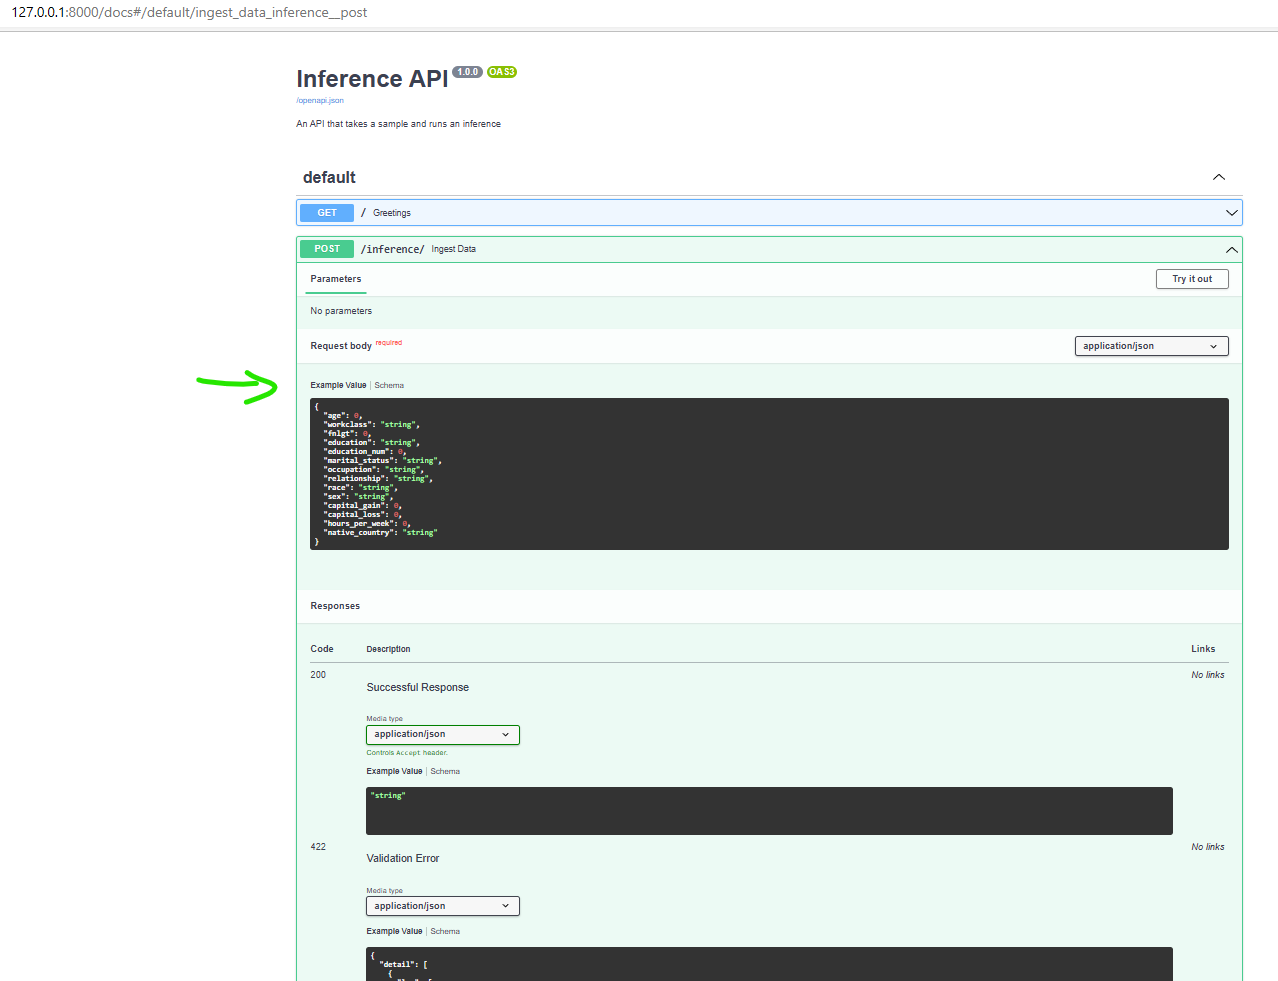
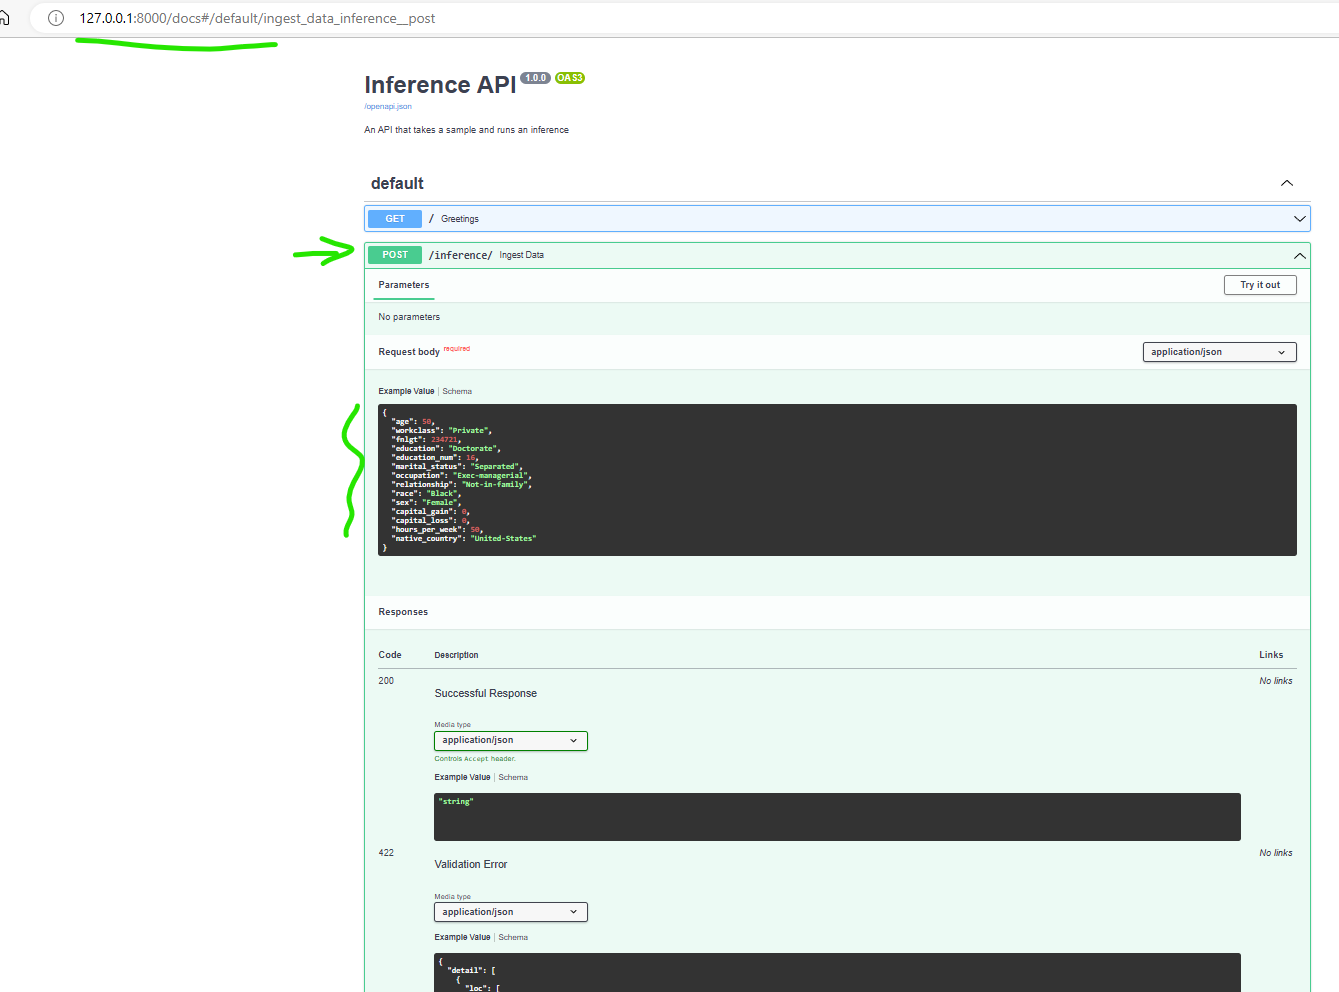
adding 1 test for class 0

diff --git a/_test_main.py b/_test_main.py
@@ -57,6 +57,40 @@ def test_inference():
     assert r.json()["prediction"] == '>50K'
 
 
+def test_inference_class0():
+    """
+    Test model inference output for class 0
+    """
+    sample =  {  'age':30,
+                'workclass':"Private", 
+                'fnlgt':234721,
+                'education':"HS-grad",
+                'education_num':1,
+                'marital_status':"Separated",
+                'occupation':"Handlers-cleaners",
+                'relationship':"Not-in-family",
+                'race':"Black",
+                'sex':"Male",
+                'capital_gain':0,
+                'capital_loss':0,
+                'hours_per_week':35,
+                'native_country':"United-States"
+            }
+
+    data = json.dumps(sample)
+
+    r = client.post("/inference", data=data )
+
+    # test response and output
+    assert r.status_code == 200
+    assert r.json()["age"] == 30
+    assert r.json()["fnlgt"] == 234721
+
+    # test prediction vs expected label
+    logging.info(f'********* prediction = {r.json()["prediction"]} ********')
+    assert r.json()["prediction"][0] == '<=50K'
+
+
 def test_wrong_inference_query():
     """
     Test incomplete sample does not generate prediction

diff --git a/main.py b/main.py
@@ -31,6 +31,26 @@ class InputData(BaseModel):
     hours_per_week: int
     native_country: str
 
+    class Config:
+        schema_extra = {
+                        "example": {
+                                    'age':50,
+                                    'workclass':"Private", 
+                                    'fnlgt':234721,
+                                    'education':"Doctorate",
+                                    'education_num':16,
+                                    'marital_status':"Separated",
+                                    'occupation':"Exec-managerial",
+                                    'relationship':"Not-in-family",
+                                    'race':"Black",
+                                    'sex':"Female",
+                                    'capital_gain':0,
+                                    'capital_loss':0,
+                                    'hours_per_week':50,
+                                    'native_country':"United-States"
+                                    }
+                        }
+
 
 # instantiate FastAPI app
 app = FastAPI(  title="Inference API",
